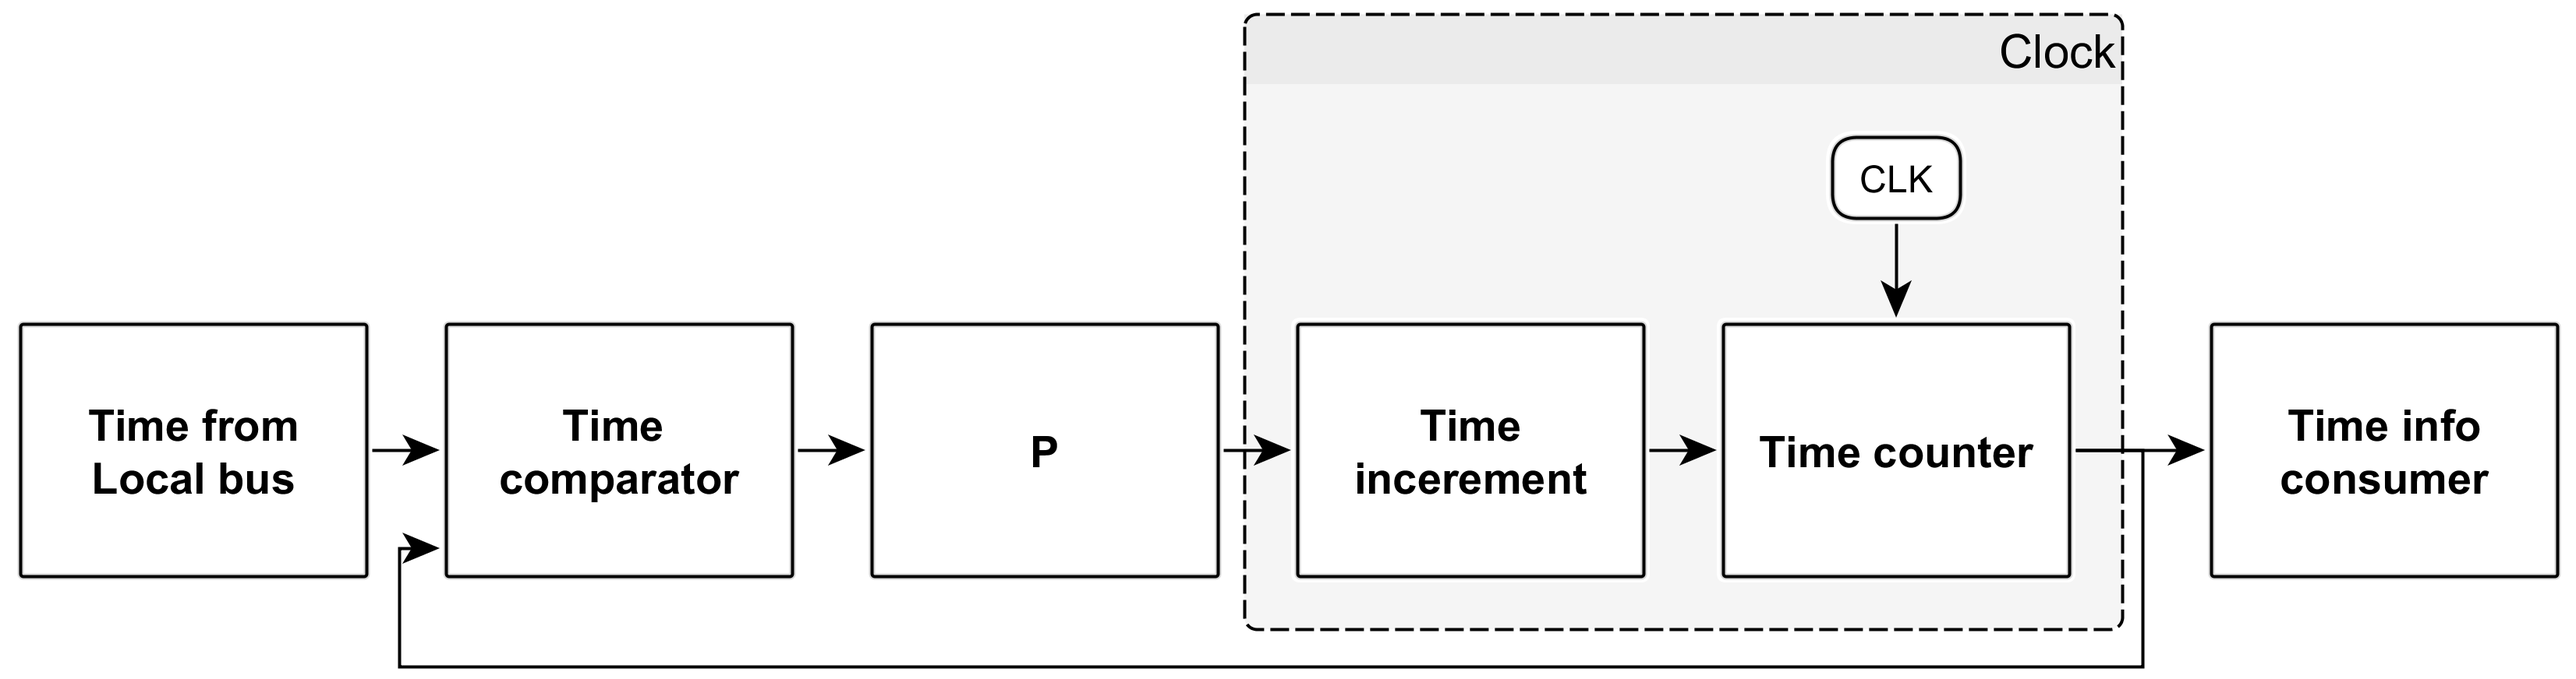
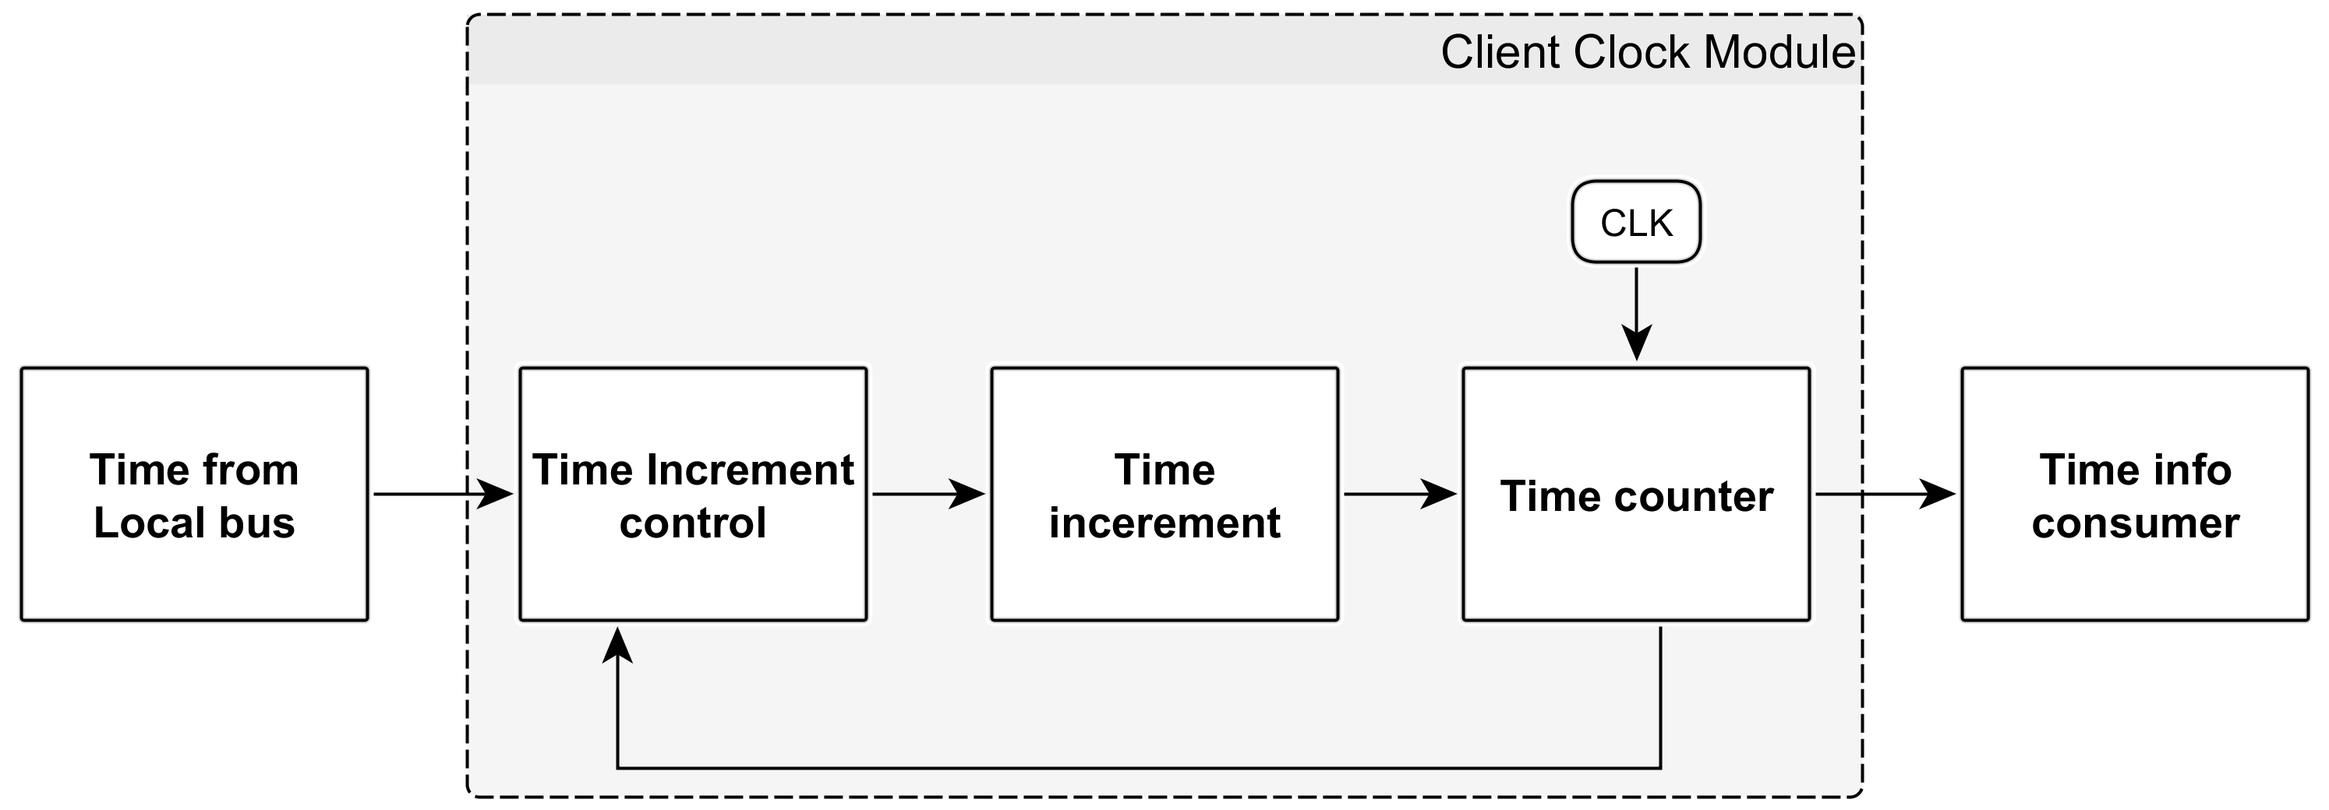
fixed clock module figure and refernce

Changed region(s): [[0.0, 0.4025, 0.996, 0.9908], [0.2179, 0.0, 0.8404, 0.1239], [0.6847, 0.1858, 0.7781, 0.3406]]

diff --git a/IEEE_journal/timesync.tex b/IEEE_journal/timesync.tex
@@ -402,7 +402,7 @@ The parameters of the physical signalling are:
 \begin{figure*}[!htb]
     \centering
     \includegraphics[width=0.8\textwidth]{figures_raw/time_control_loop.png}
-    \caption{Internal clock control loop}
+    \caption{Internal clock module diagram}
     \label{fig:closed-loop}
 \end{figure*}
 
@@ -454,8 +454,8 @@ time information into a module that performs time synchronization executing the 
 \end{algorithmic}
 \end{algorithm}
 
-The clock module
-is incrementing a clock counter with an increment in each system clock period. Since the oscillator frequency was not
+The client clock module -- as shown in Figure~\ref{fig:closed-loop} --
+is incrementing a clock counter with an increment value in each system clock period. Since the oscillator frequency was not
 configurable in the existing system, the clock has to be disciplined through adjusting the time increment itself. The $Delay_{static}$ constant can be measured
 for a given configuration and adjusted accordingly.
 
